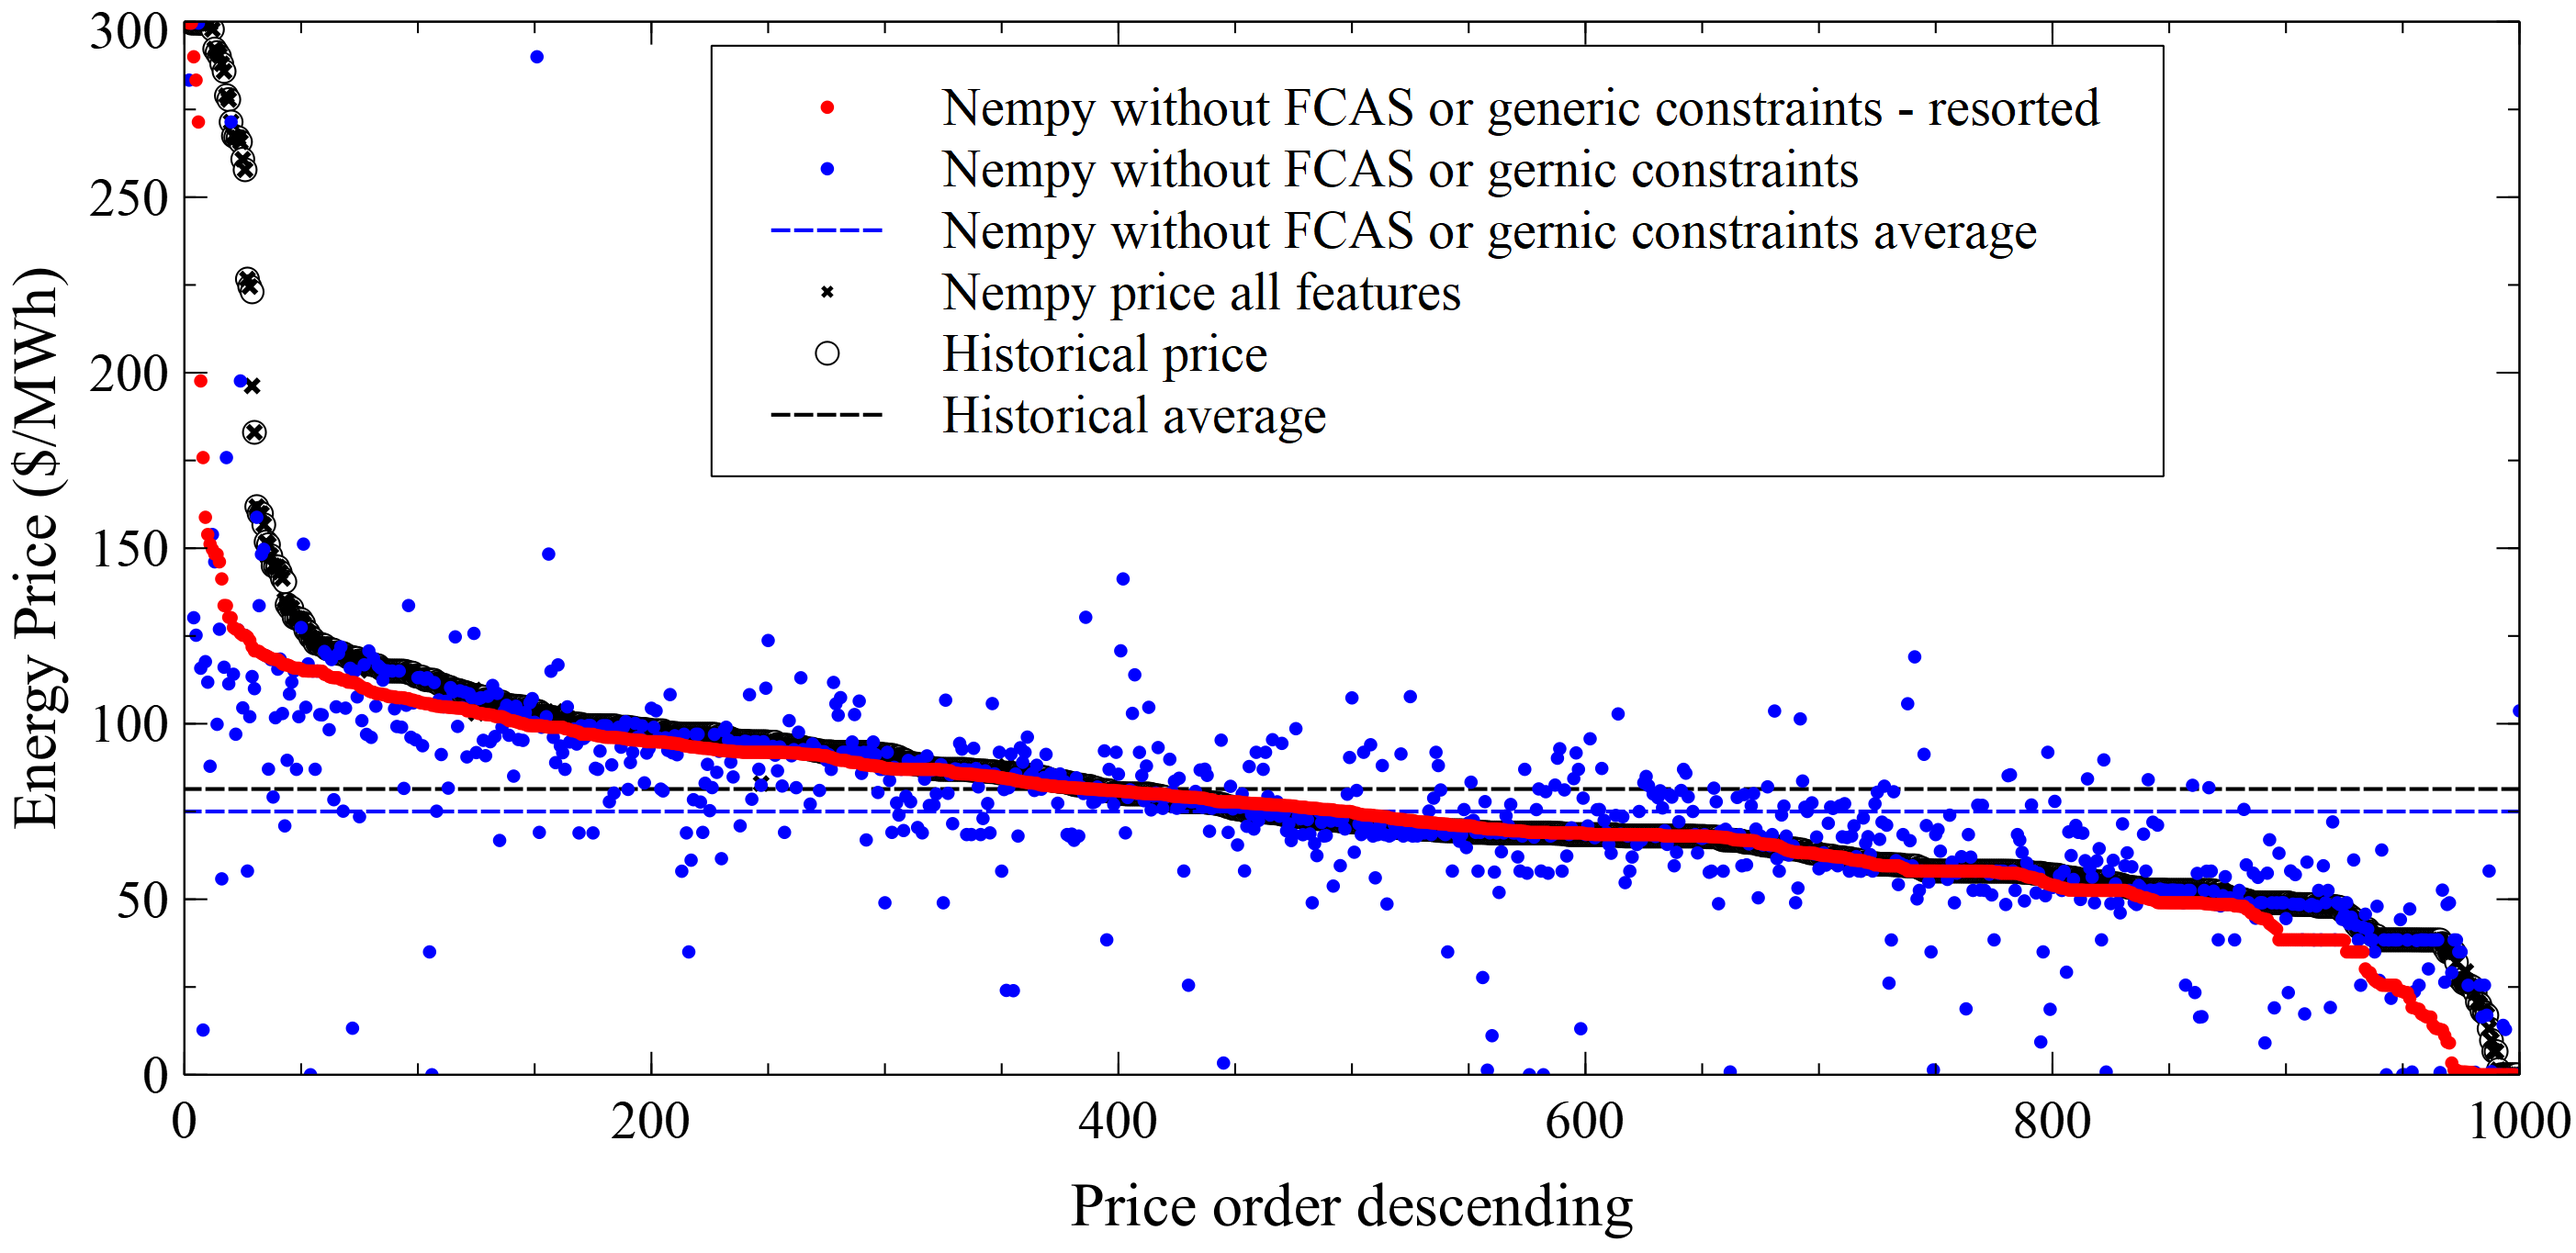
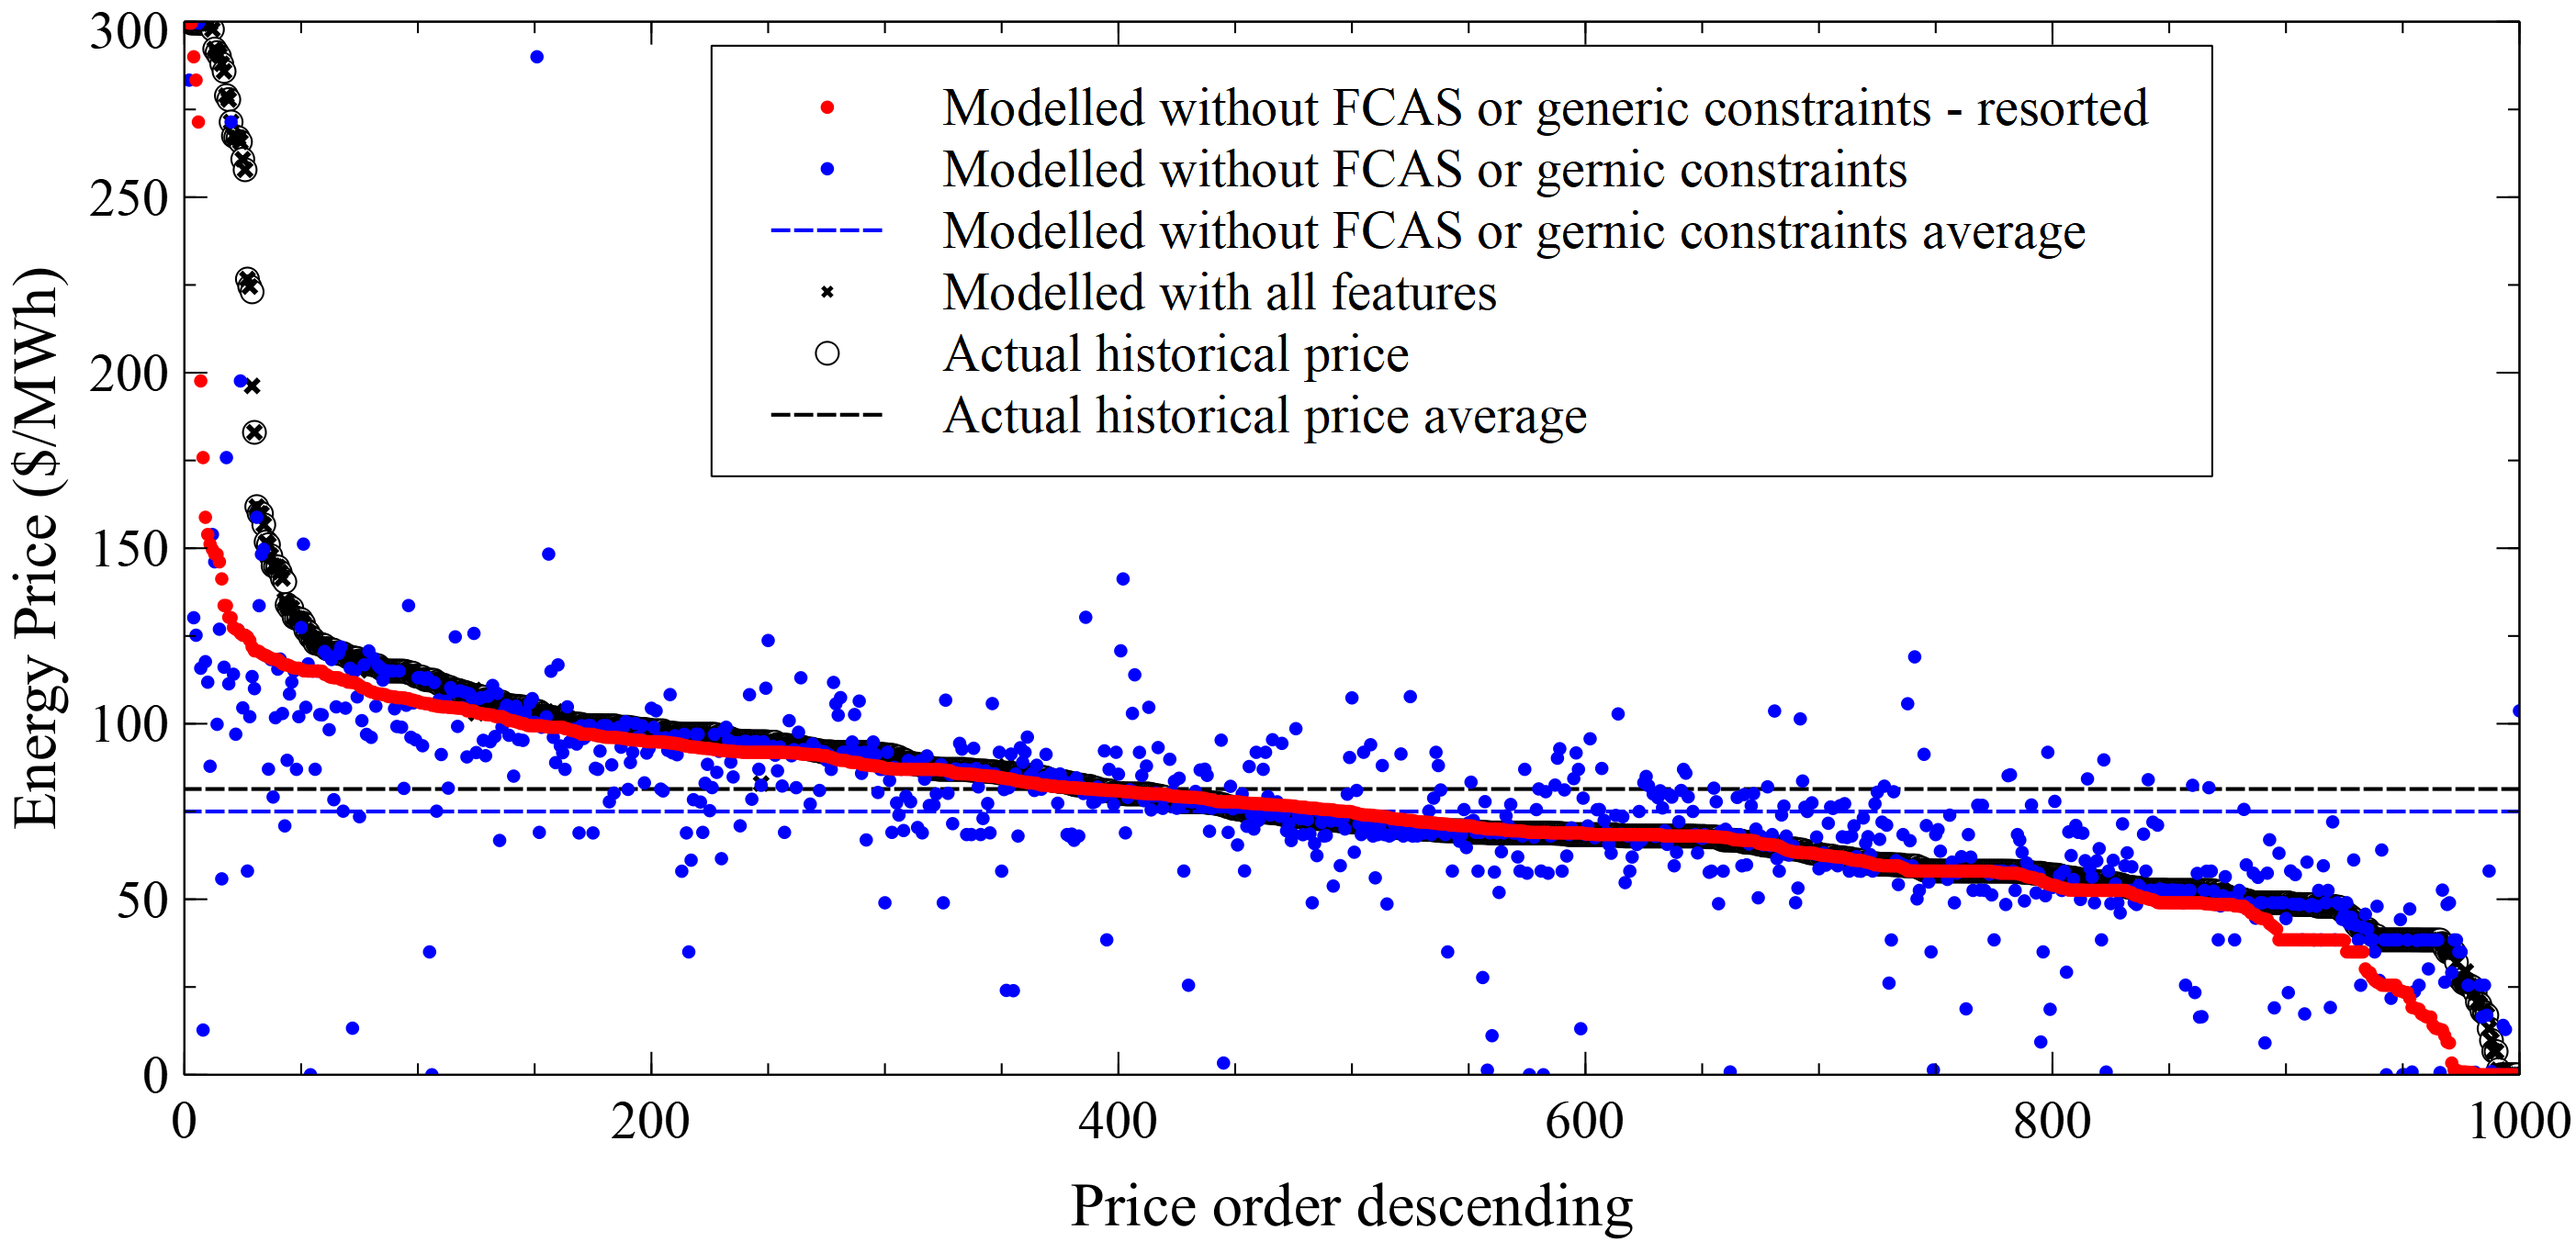
typo fix, figure caption, figure legend

Changed region(s): [[0.3722, 0.0615, 0.8374, 0.3692]]

diff --git a/paper.md b/paper.md
@@ -78,19 +78,20 @@ used either as is, or as building block in a large modelling tool. Some potentia
 simplifications, however, to improve model performance it is often desirable to add additional detail. Nempy can be used 
 to study the impact of different simplifications on modelling outcomes, and thus provide guidance on how model 
 performance could be improved by adding additional detail. Figure 1 shows a simple example of such an analysis. The price
-results from the New South Wales region for 1000 randomly selected intervals in the 2019 calender year are shown. When
-Nempy is configured with a full set of market features price results closely match historical prices. When the FCAS 
+results from the New South Wales region for 1000 randomly selected intervals in the 2019 calendar year are shown. When
+Nempy is configured with a full set of market features price results closely match actual prices. When the FCAS 
 markets and generic constraints (network and security) are removed from the model, results differ significantly. Resorting
 the results of the simpler market model, we can see that both models produce a similar number of medianly priced 
 intervals. However, the highest and lowest priced intervals of the simpler model are significantly lower. The average
 historical price is 81.4 $/MWh, the average price of the full featured model is 81.3 $/MWh, and the average price of the 
-simpler model is 75 $/MWh. The close match between the results of the full featured model and historical prices allows 
+simpler model is 75.0 $/MWh. The close match between the results of the full featured model and historical prices allows 
 for the attribution of the deviation of the simpler model explicitly to the simplification that have been made.  
 
-![Dispatch price results from the New South Wales region for 1000 randomly selected intervals in the 2019 calender year.
-  The historical prices, prior to scaling or capping, are also shown for comparison. Results from two Nempy models are
+![Dispatch price results from the New South Wales region for 1000 randomly selected intervals in the 2019 calendar year.
+  The actual prices, prior to scaling or capping, are also shown for comparison. Results from two Nempy models are
   shown, one with a full set of dispatch features, and one without FCAS markets or generic constraints (network and 
-  security constraints). For the simpler model price results are shown both in historical price order and resorted.\label{fig:example}](plot.png)
+  security constraints). Actual prices, results from the full featured model, and the simpler model are shown in 
+  descending order for actual prices, results from the simpler model are also shown resorted.\label{fig:example}](plot.png)
 
 2. As a building block in agent based market models. Agent based models can be used to study electricity market 
 operation, and are particularly useful in modelling both the competitive nature of electricity markets and their complex 
